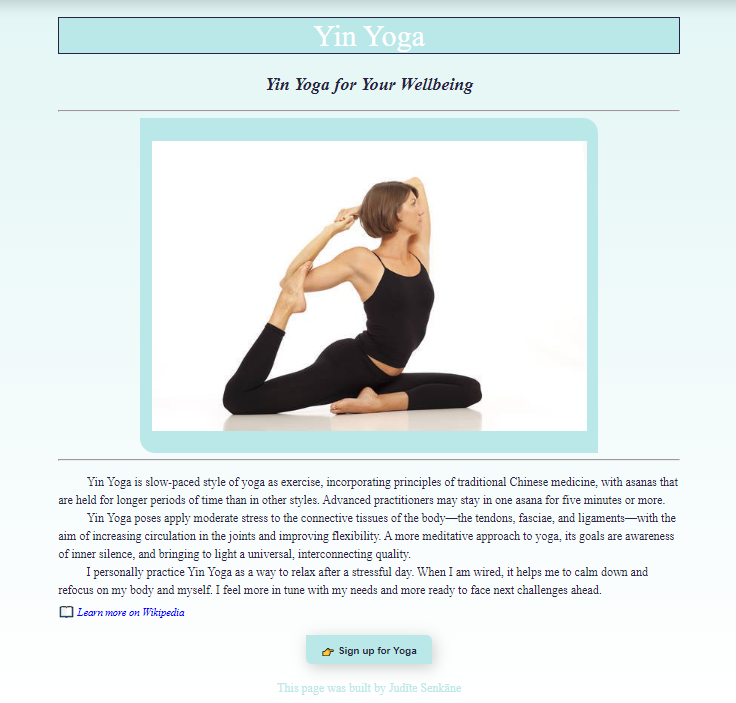
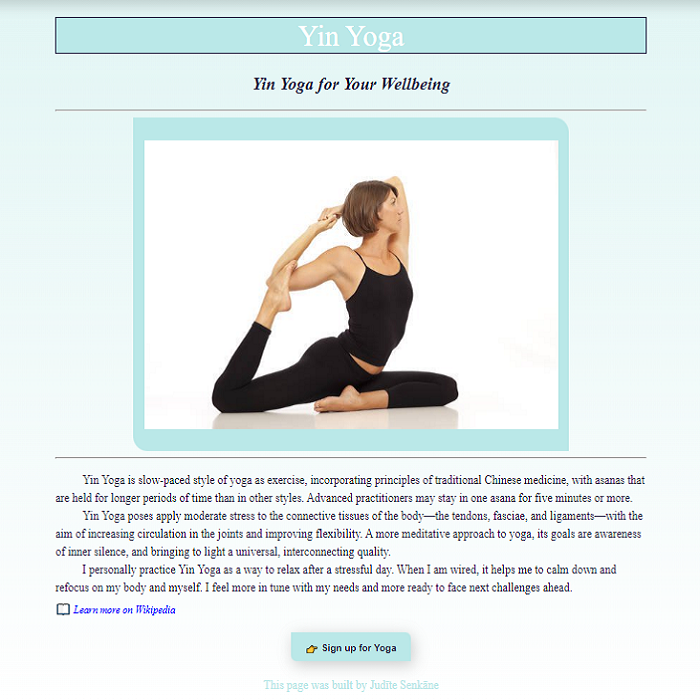
Added project overview and changed shadow parameters

diff --git a/style/portfolio.css b/style/portfolio.css
@@ -4,7 +4,7 @@
   --text-color: #272142;
   --heading-font-family: "Playfair Display", serif;
   --default-font-family: "Poppins", sans-serif;
-  --shadow: 0 5px 10px rgba(0, 0, 0, 0.3);
+  --shadow: 3px 5px 5px rgba(0, 0, 0, 0.1);
 }
 body {
   font-family: var(--default-font-family);
@@ -19,6 +19,27 @@ h6 {
   font-size: 24px;
   font-weight: 400;
   line-height: 1.5;
+}
+img {
+  padding: 20px 30px;
+  background-color: var(--primary-color);
+  border-radius: 20px;
+  box-shadow: var(--shadow);
+}
+h4 {
+  font-size: 20px;
+  font-weight: 700;
+  text-align: center;
+  color: black;
+}
+.img1 {
+  flex: 1.0457;
+}
+.img2 {
+  flex: 1.8486;
+}
+.img3 {
+  flex: 1.4771;
 }
 .hero {
   text-align: center;
@@ -46,7 +67,7 @@ h6 {
   border-radius: 4px;
   padding: 20px 30px;
   margin: 25px;
-  box-shadow: var(--shadow);
+  box-shadow: 0 5px 10px rgba(0, 0, 0, 0.3);
 }
 .btn-main:hover {
   background-color: var(--secondary-color);
@@ -81,7 +102,12 @@ h6 {
   background: white;
   color: var(--secondary-color);
 }
-
+.container p {
+  text-align: center;
+  opacity: 70%;
+  font-size: 14px;
+  font-weight: 400;
+}
 .buttons {
   display: flex;
   justify-content: center;

diff --git a/index.html b/index.html
@@ -42,6 +42,40 @@
         </div>
       </div>
     </div>
+    <div class="container">
+      <div class="row">
+        <div class="col-md-4 mt-5">
+          <a href="#"
+            ><img
+              src="/images/yin-yoga-project.png"
+              alt="Yin Yoga Project"
+              class="img-fluid mb-3"
+          /></a>
+          <h4>Yin Yoga Project</h4>
+          <p>Front-end Developer</p>
+        </div>
+        <div class="col-md-4 mt-5">
+          <a href="#"
+            ><img
+              src="/images/weather-app.png"
+              alt="Weather App"
+              class="img-fluid mb-3"
+          /></a>
+          <h4>Weather App</h4>
+          <p>Front-end Developer</p>
+        </div>
+        <div class="col-md-4 mt-5">
+          <a href="#" alt="Portfolio"
+            ><img
+              src="/images/portfolio.png"
+              alt="Portfolio"
+              class="img-fluid mb-3"
+          /></a>
+          <h4>Portfolio</h4>
+          <p>Front-end Developer</p>
+        </div>
+      </div>
+    </div>
     <footer class="m-5">
       <div class="work-inquiry mb-5">
         <div class="work-inquiry-heading">
